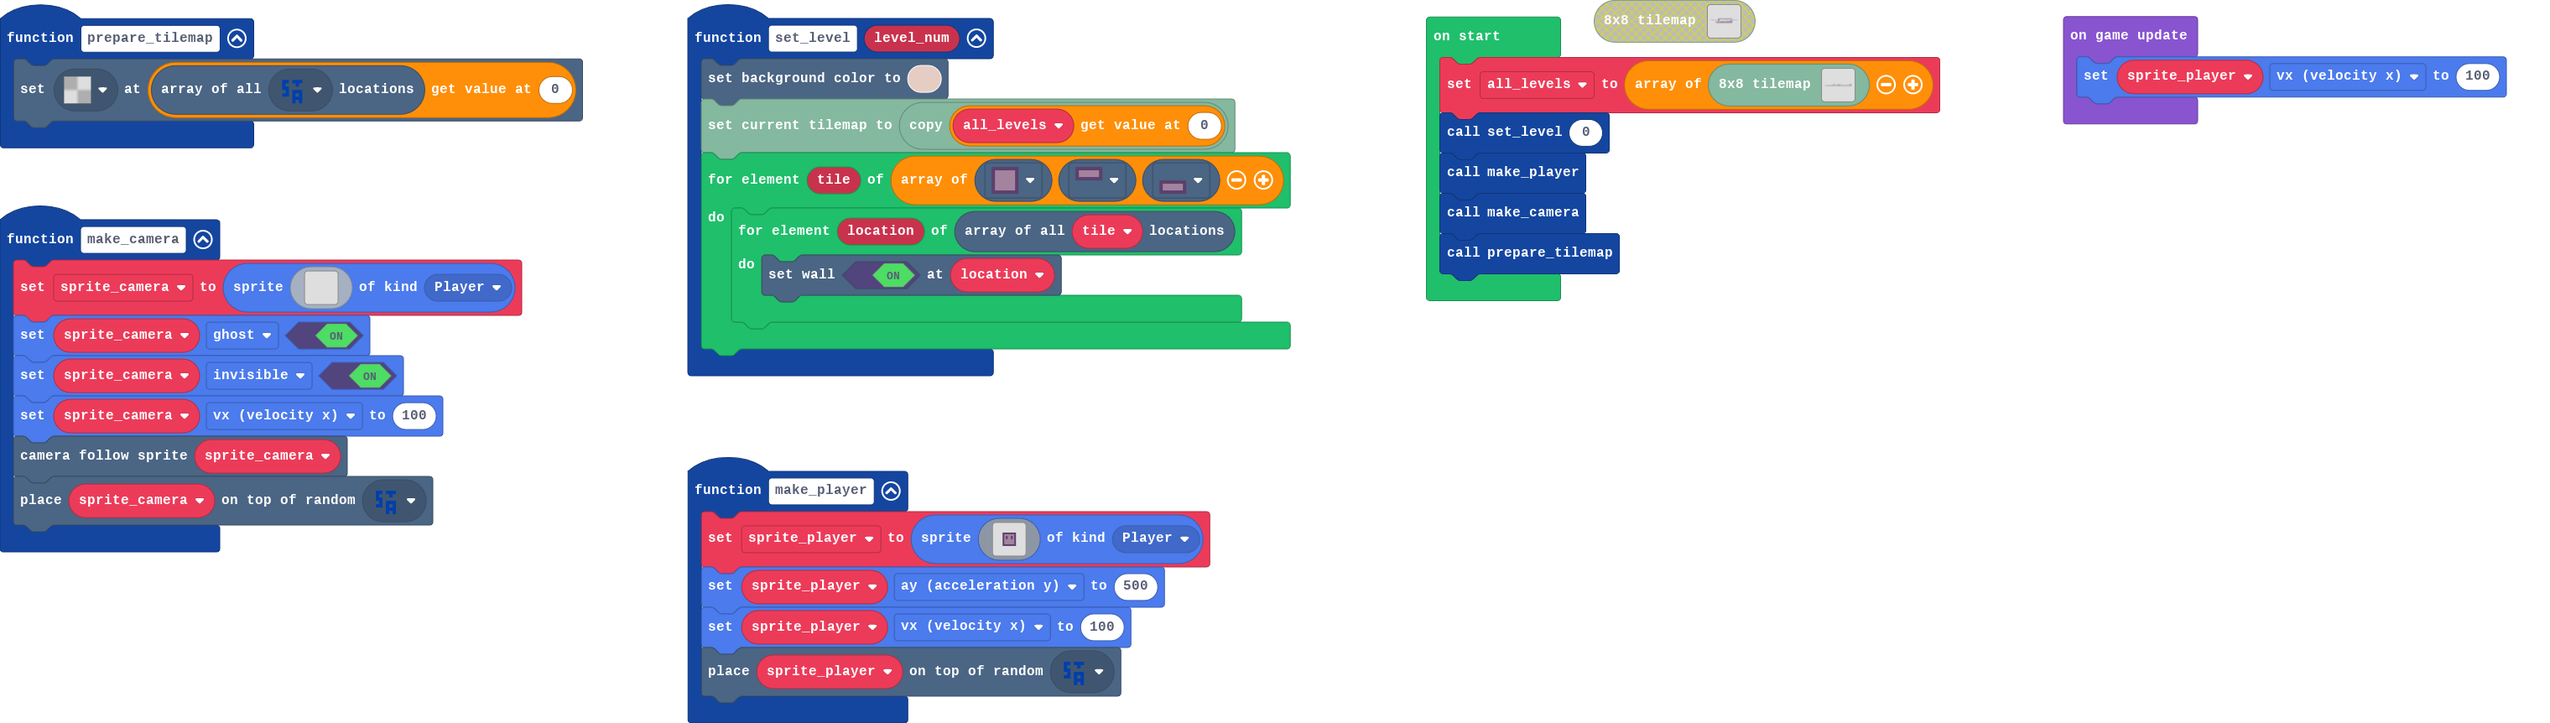
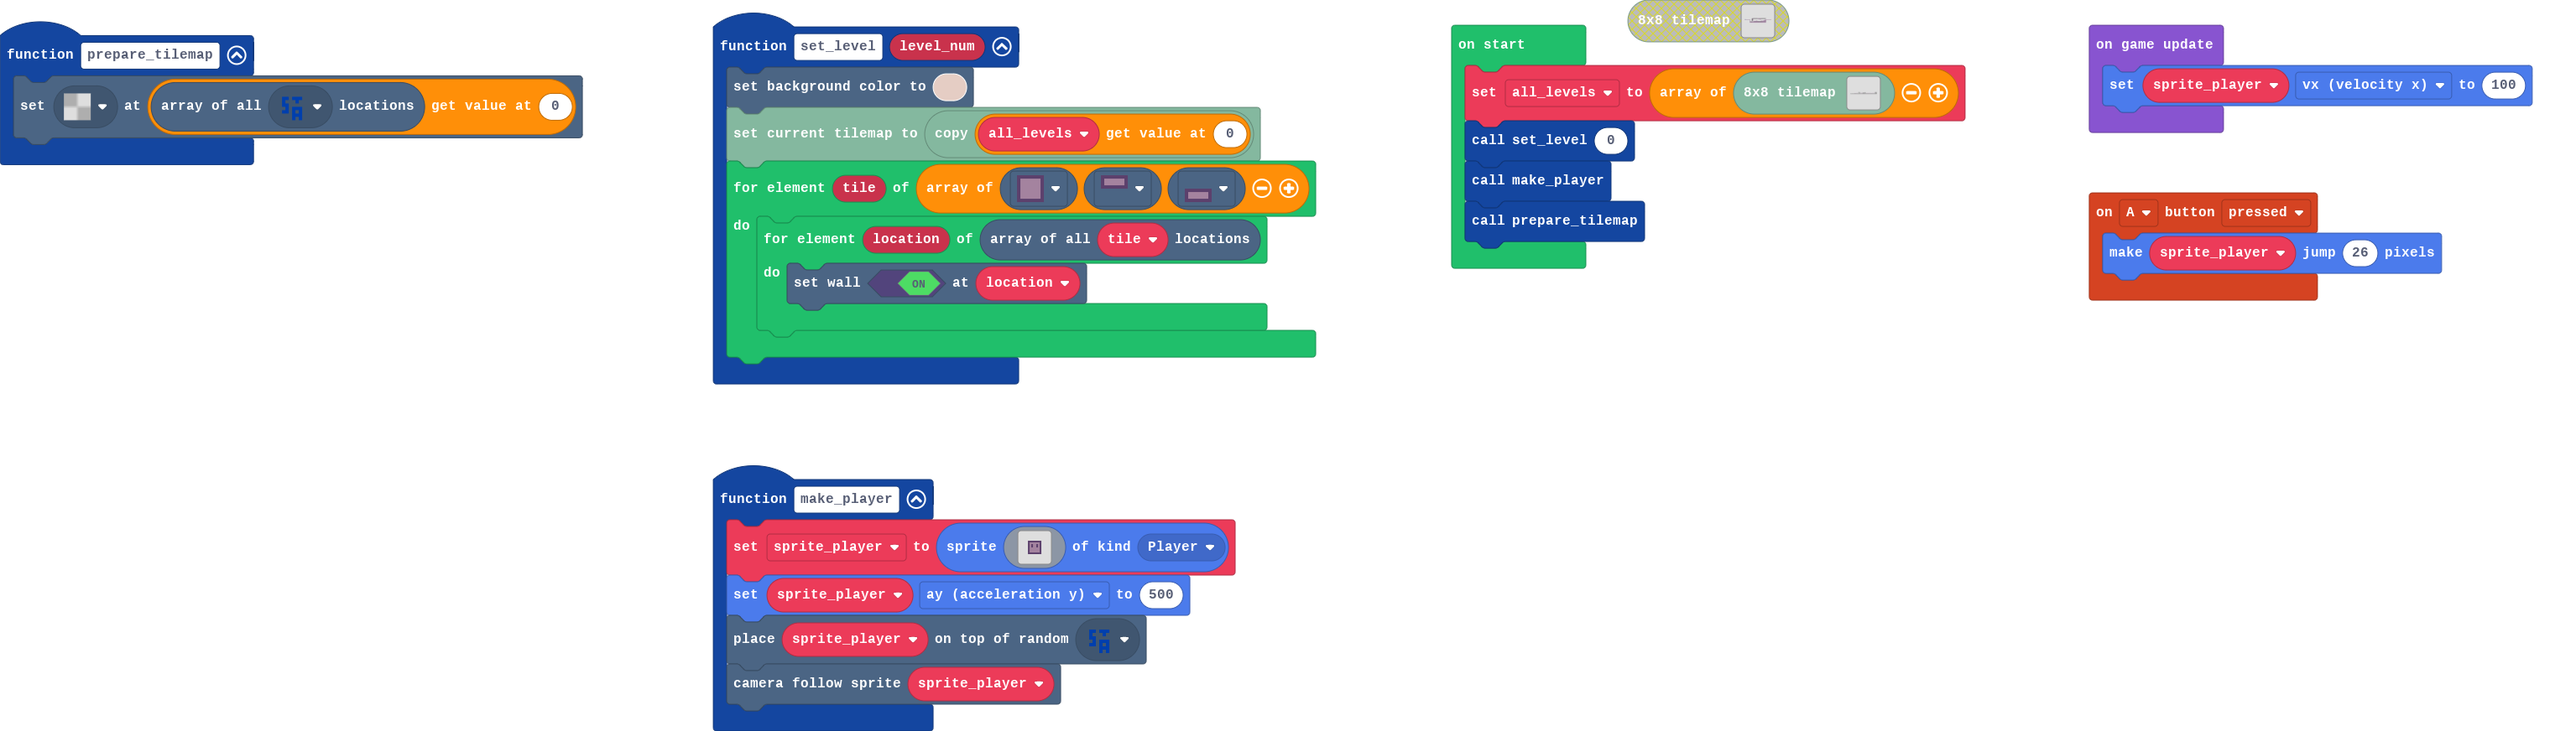
Can jump

diff --git a/main.ts b/main.ts
@@ -7,30 +7,23 @@ function set_level (level_num: number) {
         }
     }
 }
+controller.A.onEvent(ControllerButtonEvent.Pressed, function () {
+    spriteutils.jumpImpulse(sprite_player, 26)
+})
 function prepare_tilemap () {
     tiles.setTileAt(tiles.getTilesByType(assets.tile`start_tile`)[0], assets.tile`transparency8`)
-}
-function make_camera () {
-    sprite_camera = sprites.create(assets.image`blank_px`, SpriteKind.Player)
-    sprite_camera.setFlag(SpriteFlag.Ghost, true)
-    sprite_camera.setFlag(SpriteFlag.Invisible, true)
-    sprite_camera.vx = 100
-    scene.cameraFollowSprite(sprite_camera)
-    tiles.placeOnRandomTile(sprite_camera, assets.tile`start_tile`)
 }
 function make_player () {
     sprite_player = sprites.create(assets.image`player`, SpriteKind.Player)
     sprite_player.ay = 500
-    sprite_player.vx = 100
     tiles.placeOnRandomTile(sprite_player, assets.tile`start_tile`)
+    scene.cameraFollowSprite(sprite_player)
 }
 let sprite_player: Sprite = null
-let sprite_camera: Sprite = null
 let all_levels: tiles.WorldMap[] = []
 all_levels = [tiles.createSmallMap(tilemap`level_1`)]
 set_level(0)
 make_player()
-make_camera()
 prepare_tilemap()
 game.onUpdate(function () {
     sprite_player.vx = 100
